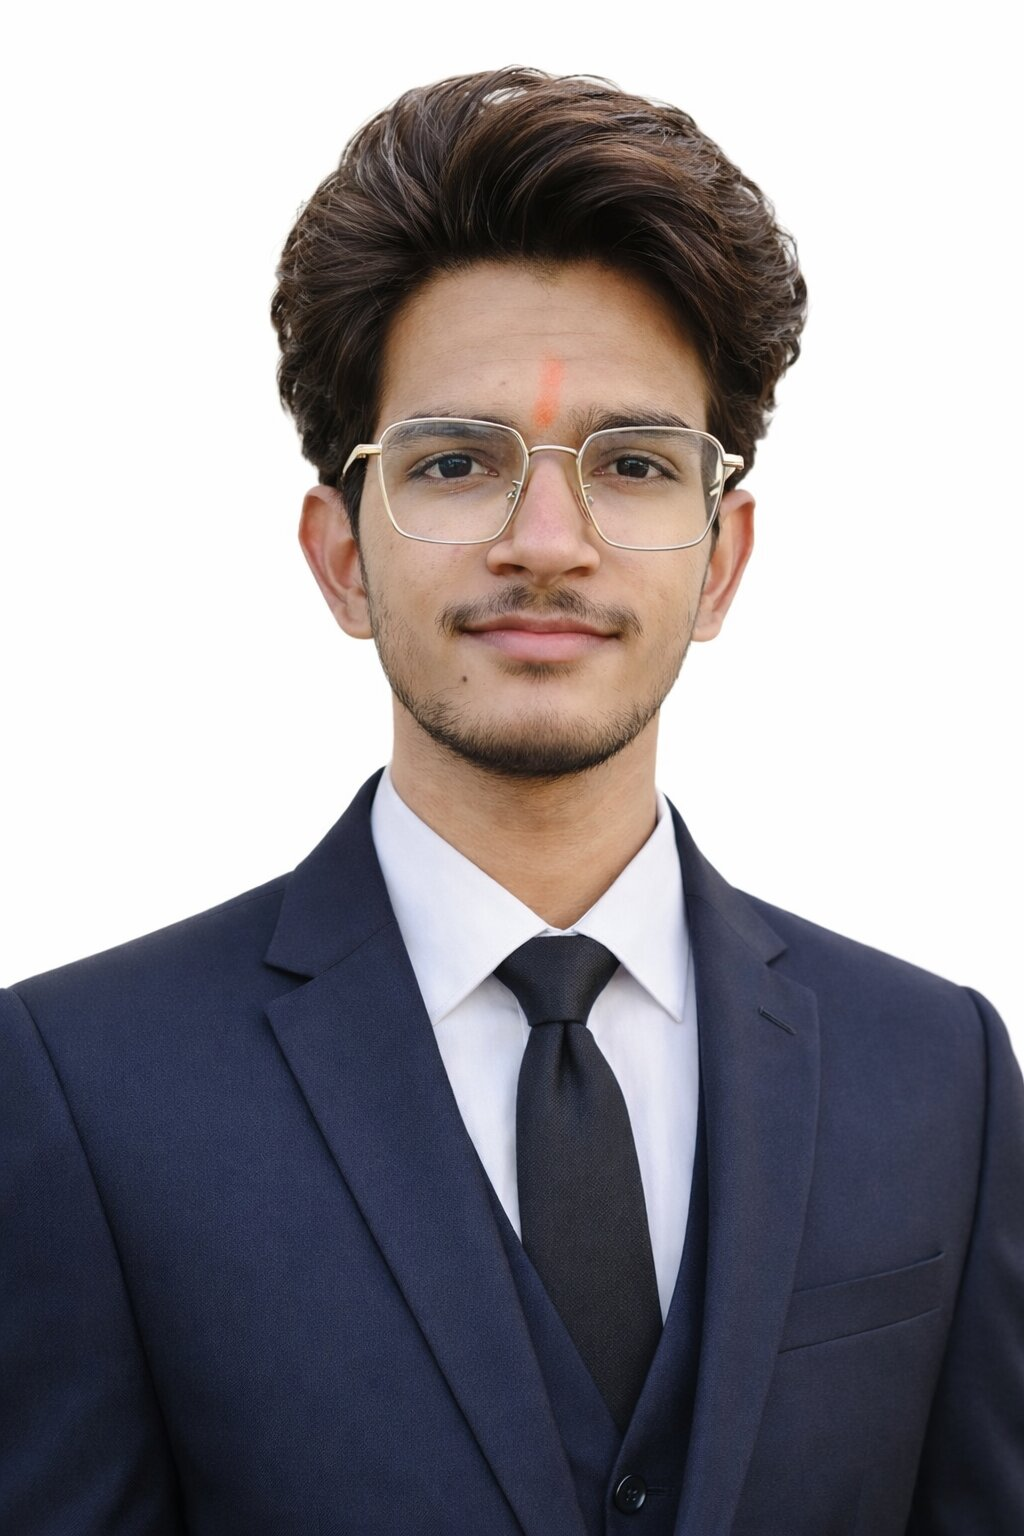
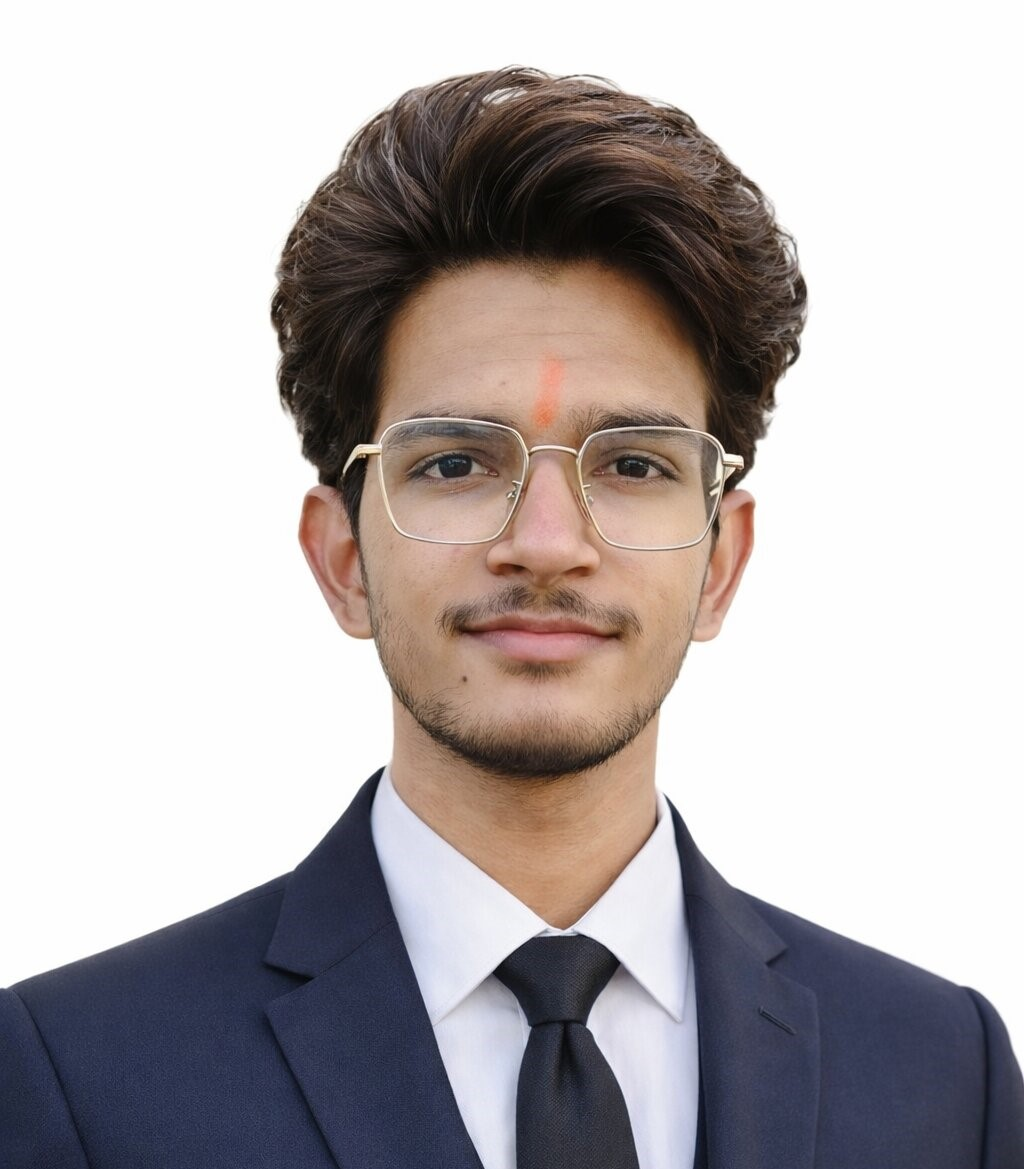
Add files via upload

diff --git a/index.html b/index.html
@@ -46,8 +46,8 @@
         <div class="container hero-content reveal">
             <div class="profile-img-container">
                 <!-- IMPORTANT: Place your photo in the portfolio folder and rename the value "src" below to your photo's filename (e.g., "my-photo.jpg") -->
-                <img src="DP Formal Photo.jpg" alt="DP Formal Photo"
-                                class="milestone-hover-img">
+                <img src="DP Formal Photo.jpg" alt="Devansh Patel"
+                                class="profile-img">
             </div>
             <h3 class="hero-greeting">Hi, I'm</h3>
             <h1 class="hero-name">Devansh Patel</h1>

diff --git a/style.css b/style.css
@@ -338,12 +338,18 @@ ul {
     padding: 6px;
     background: linear-gradient(135deg, var(--accent-primary), var(--accent-secondary));
     box-shadow: 0 10px 30px var(--accent-glow);
+    transition: var(--transition);
+}
+
+.profile-img-container:hover {
+    transform: translateY(-5px) scale(1.03);
+    box-shadow: 0 15px 35px var(--accent-glow);
 }
 
 .profile-img {
     width: 100%;
     height: 100%;
-    object-fit: contain;
+    object-fit: cover;
     border-radius: 50%;
     border: 6px solid var(--bg-dark);
     background-color: var(--bg-dark);
